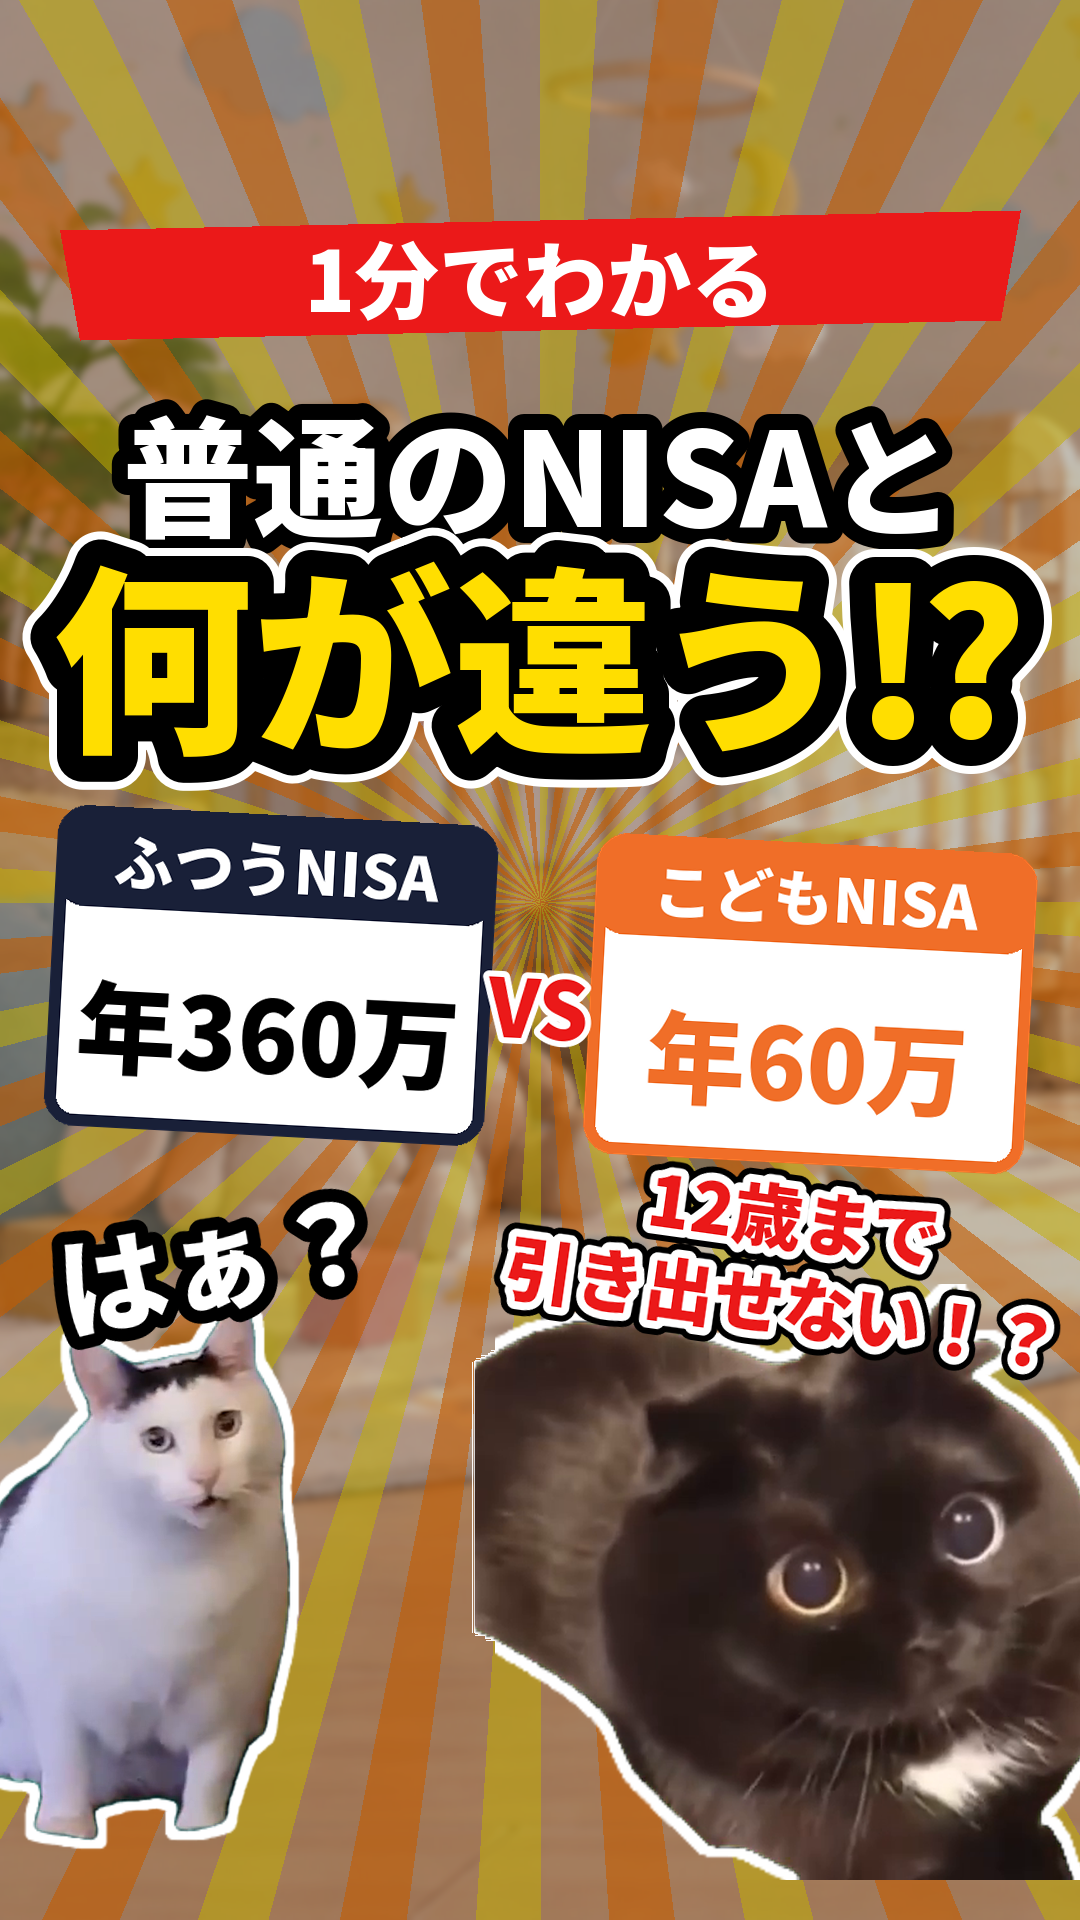
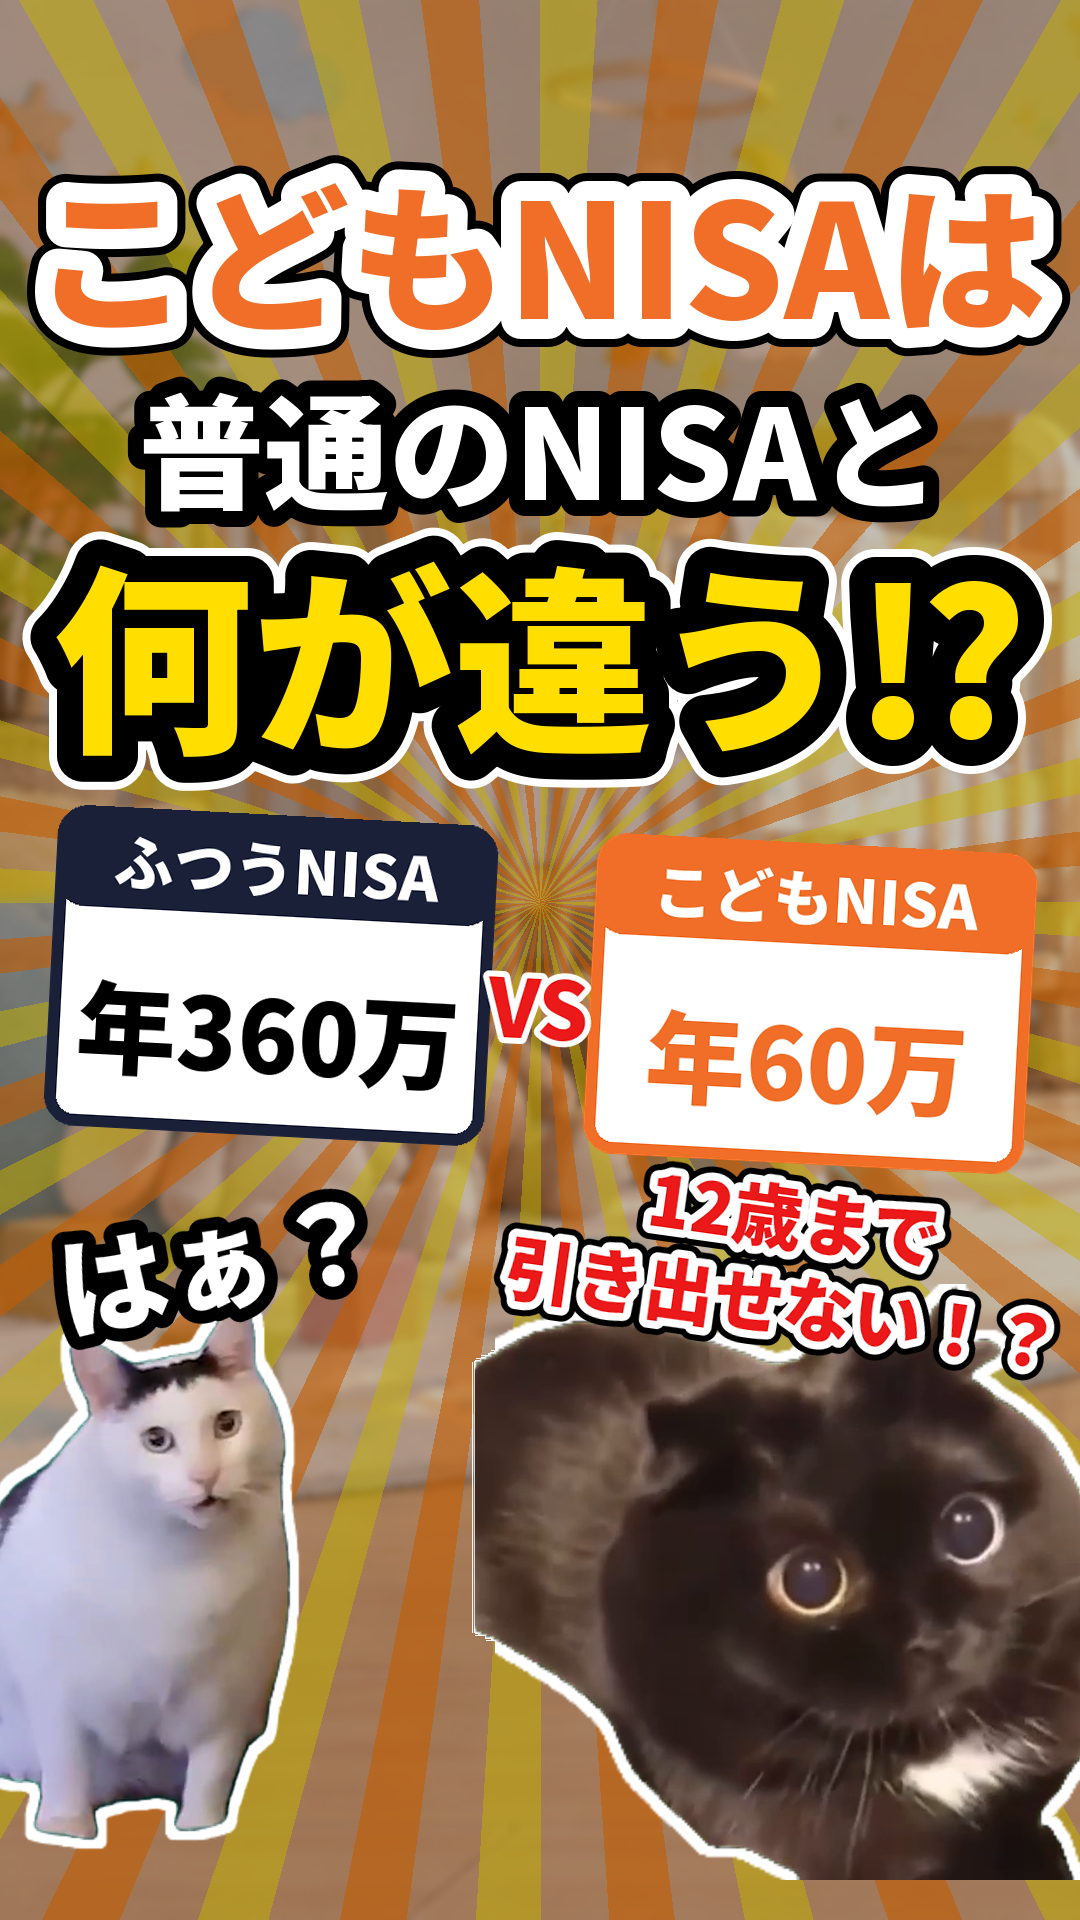
ショートのサムネ：「1分でわかる」をやめて「こどもNISAは」を大きく
Claude-Session: https://claude.ai/code/session_011g9CsrfFD5YswfNSvNDW39

Changed region(s): [[0.0, 0.0625, 1.0, 0.3125]]

diff --git a/catmeme/make_thumb_short_03.py b/catmeme/make_thumb_short_03.py
@@ -32,9 +32,8 @@ def main():
     img.alpha_composite(Image.new("RGBA", (W, H), (0, 0, 0, 60)))
     d = ImageDraw.Draw(img)
     # 上：タイトル
-    d.polygon([(60, 230), (W - 60, 210), (W - 80, 320), (80, 340)], fill=RED)
-    fit_text(d, (W / 2, 275), "1分でわかる", 800, 84, WHITE, RED, sw_ratio=0.0)
-    fit_text(d, (W / 2, 470), "普通のNISAと", 1000, 130, WHITE, BLACK, double=None)
+    fit_text(d, (W / 2, 250), "こどもNISAは", 1030, 190, ORANGE, WHITE, double=BLACK)
+    fit_text(d, (W / 2, 445), "普通のNISAと", 1000, 125, WHITE, BLACK, double=None)
     fit_text(d, (W / 2, 650), "何が違う⁉", 1020, 200, YELLOW, BLACK, double=WHITE)
     # 真ん中：VS パネル
     pw = Image.new("RGBA", (W, 330), (0, 0, 0, 0))
